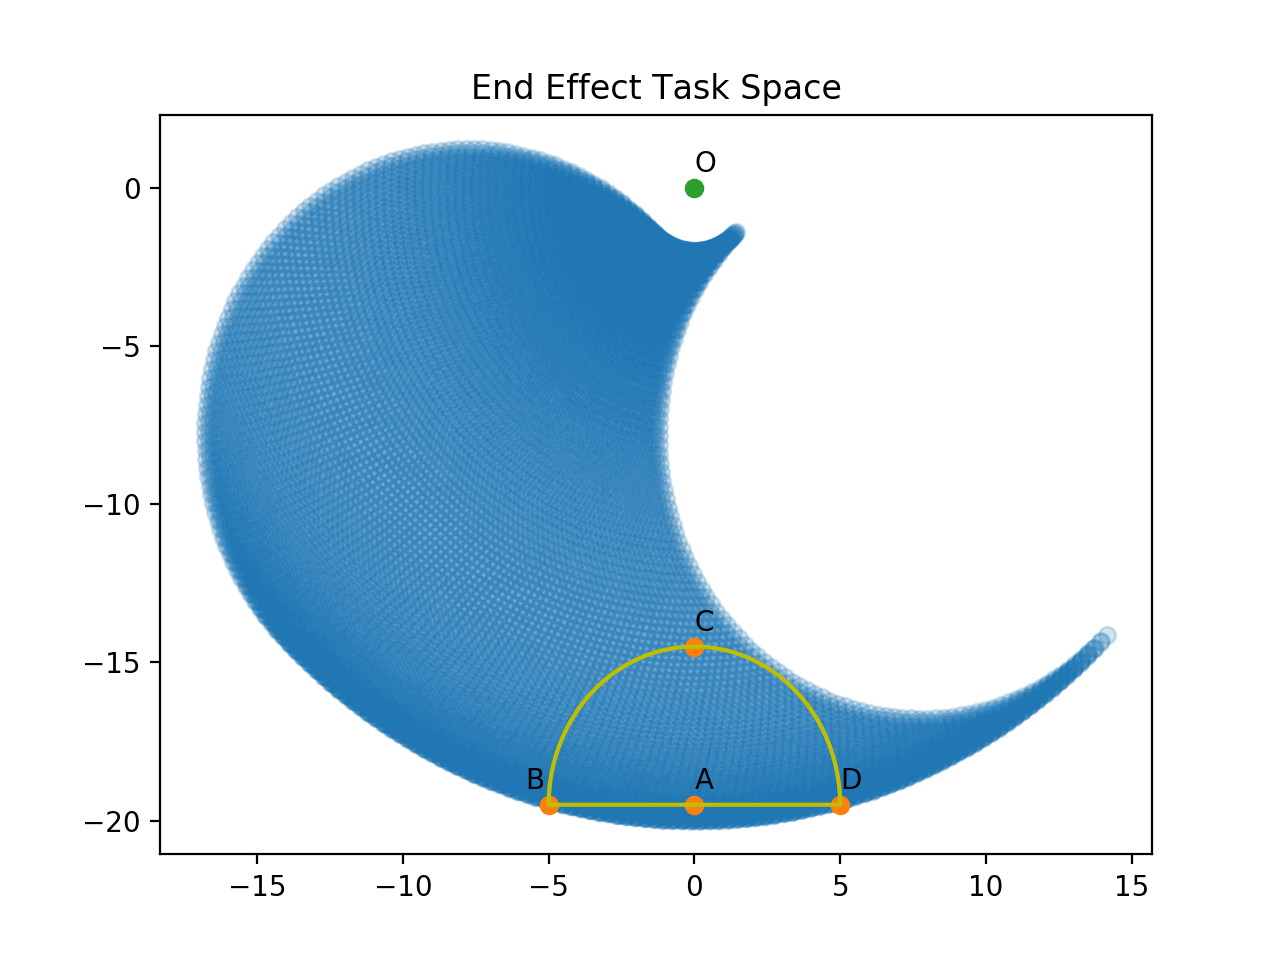
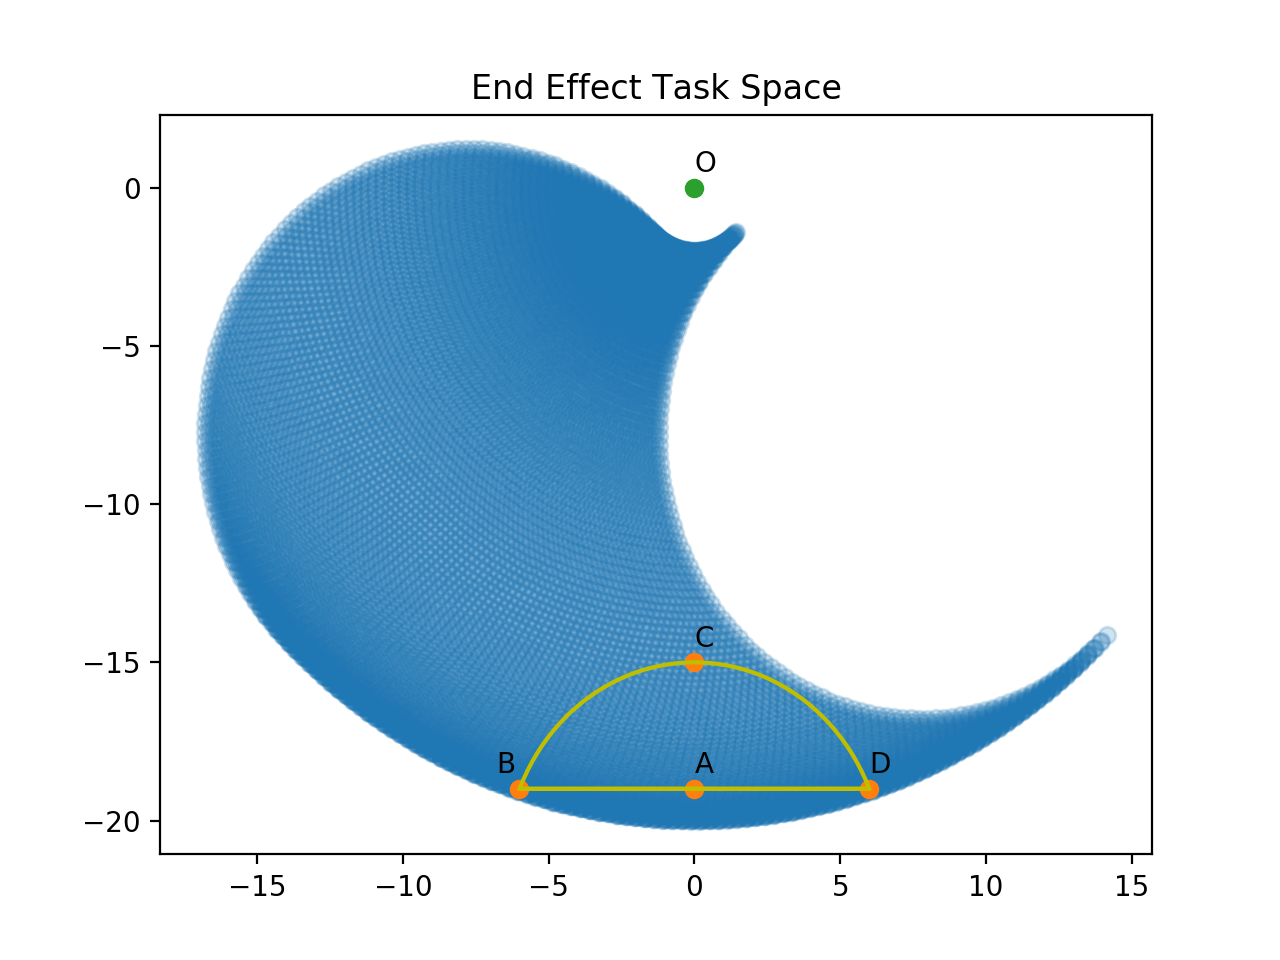
repicked the target end effect movement

Changed region(s): [[0.375, 0.7188, 0.6875, 0.8438], [0.4688, 0.625, 0.625, 0.7188]]

diff --git a/mathematics/inverse_kinematic/taskspace.py b/mathematics/inverse_kinematic/taskspace.py
@@ -1,5 +1,26 @@
 import matplotlib.pyplot as plt
 import numpy as np
+import pandas as pd
+from sympy import *
+
+
+def validate(l1, l2, tri_x, tri_y):
+    if tri_x ** 2 + tri_y ** 2 >= (l1 + l2) ** 2:
+        print('out of the workspace!')
+    if tri_x ** 2 + tri_y ** 2 <= (l1 - l2) ** 2:
+        print('out of the workspace!')
+
+
+def find_circle_origin(p1, p2, p3):
+    x, y = symbols('x y')
+    p1x, p1y = p1
+    p2x, p2y = p2
+    p3x, p3y = p3
+    eq1 = Eq((x - p1x) ** 2 + (y - p1y) ** 2, (x - p2x) ** 2 + (y - p2y) ** 2)
+    eq2 = Eq((x - p1x) ** 2 + (y - p1y) ** 2, (x - p3x) ** 2 + (y - p3y) ** 2)
+    res = linsolve((eq1, eq2), (x, y))
+    return res.args[0]
+
 
 # length of links (cm)
 link1 = 11
@@ -34,8 +55,8 @@ b = np.array(b)
 fig, ax = plt.subplots()
 plt.title('End Effect Task Space')
 
-x, y = b.transpose()
-ax.scatter(x, y, alpha=0.2)
+wx, wy = b.transpose()
+ax.scatter(wx, wy, alpha=0.2)
 
 
 # route design (manually)
@@ -43,10 +64,11 @@ ax.scatter(x, y, alpha=0.2)
 # form: hemisphere
 # position: right under the origin with high h
 # phases: 4
-fh = 0.5
+fh = 1
 phases = 4
-# step length
-deltaS = 10
+# step length and height
+deltaS = 12
+deltaH = 4
 # counting stops
 routeSteps = 100
 phaseSteps = routeSteps // phases
@@ -54,24 +76,34 @@ phaseSteps = routeSteps // phases
 # high of the robot in ready state (cm)
 h = link1 + link2 - fh
 
-# phase 1
+# phase 1, straight line
 rx1, ry1 = (ox, -h)
+# phase 2 an 3, curve
+rx2, ry2 = (ox - deltaS // 2, -h)
+rx3, ry3 = (ox, oy - h + deltaH)
+# phase 4, straight line
+rx4, ry4 = (ox + deltaS // 2, -h)
+
 rx = np.linspace(rx1, ox - deltaS // 2, phaseSteps)
 ry = np.repeat(ry1, phaseSteps)
-# phase 2 an 3
-rx2, ry2 = (ox - deltaS // 2, -h)
-rx3, ry3 = (ox, oy - h + deltaS // 2)
-for theta in np.linspace(0., np.pi, phaseSteps * 2):
-    rx = np.append(rx, [ox - deltaS // 2 * np.cos(theta)])
-    ry = np.append(ry, [oy - h + deltaS // 2 * np.sin(theta)])
-# phase 4
-rx4, ry4 = (ox + deltaS // 2, -h)
+
+cx, cy = find_circle_origin((rx2, ry2), (rx3, ry3), (rx4, ry4))
+print('cx, cy: ', cx, cy)
+angHalf = np.pi - 2 * np.arctan(deltaS // 2 / deltaH)
+R = sqrt((cx - rx2) ** 2 + (cy - ry2) ** 2)
+for theta in np.linspace(np.pi / 2 - angHalf, np.pi / 2 + angHalf, phaseSteps * 2):
+    rxNew = cx + R * np.cos(theta)
+    ryNew = cy + R * np.sin(theta)
+    validate(link1, link2, rxNew - ox, ryNew - oy)
+    rx = np.append(rx, [rxNew])
+    ry = np.append(ry, [ryNew])
 
 rx = np.append(rx, np.linspace(ox + deltaS // 2, ox, phaseSteps))
 ry = np.append(ry, np.repeat(-h, phaseSteps))
 
 plt.plot(rx, ry, 'y')
-
+targets = pd.DataFrame({'X': rx, 'Y': ry})
+targets.to_csv('./results/targetPoints', index=False)
 
 # plot annotations
 ax.scatter([rx1, rx2, rx3, rx4], [ry1, ry2, ry3, ry4], alpha=1)
@@ -83,5 +115,8 @@ ax.annotate('B', (rx2 - 0.8, ry2 + 0.5))
 ax.annotate('C', (rx3, ry3 + 0.5))
 ax.annotate('D', (rx4, ry4 + 0.5))
 
-
 plt.show()
+
+
+
+
